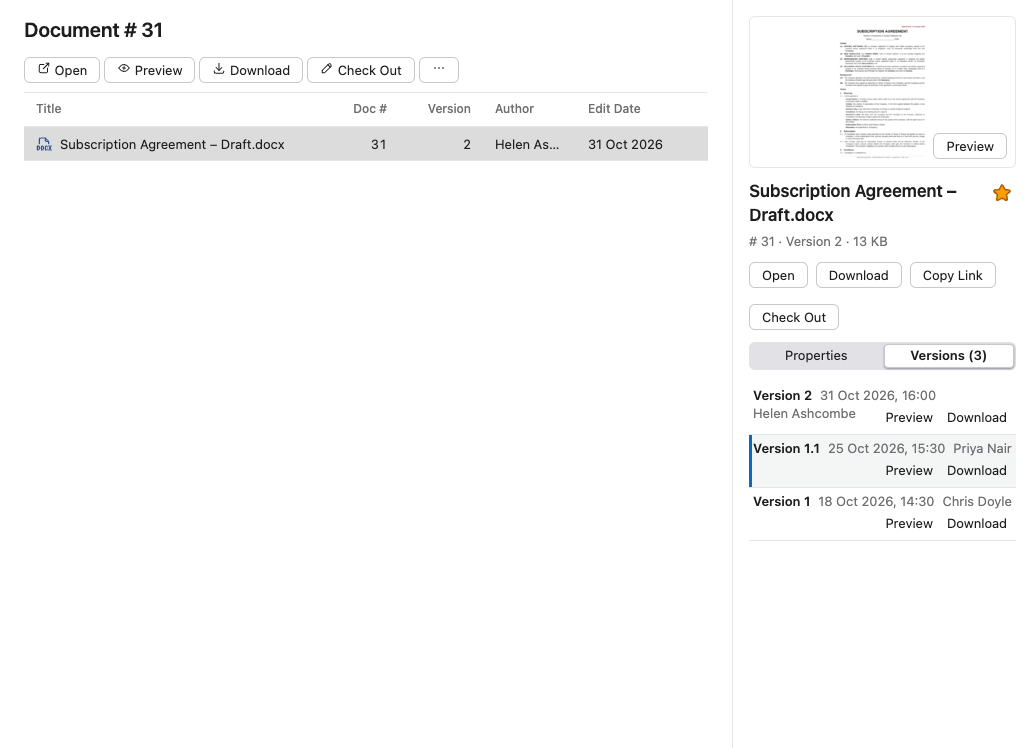
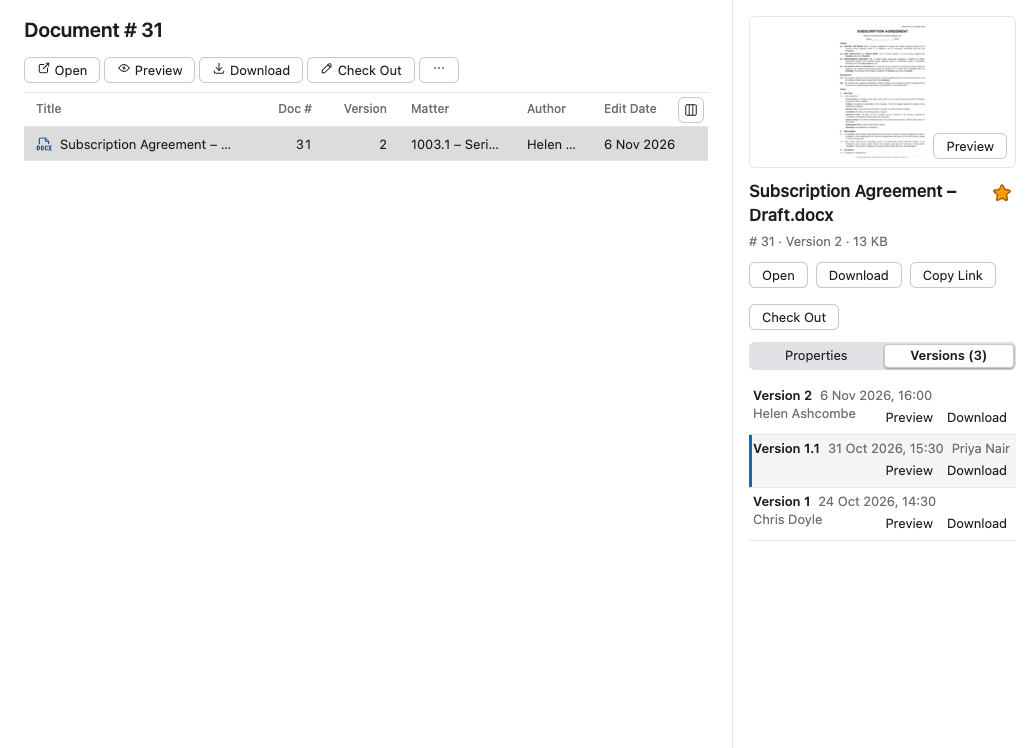
List columns: the User Guide's pictures of lists with the Matter cell and the Columns button
Search results with Filters, Checked Out to Me and the page a doc # opens, retaken at their sizes from a fresh demo stack
on this branch's image (headless Chrome on the Mac at 1280 x 800, light, Europe/London, en-GB, as Priya Nair), with
Checked Out to Me's four check-outs staged as before: Disclosure Letter in the browser, then three a minute apart on a
device token named "Healdan Helper on MacBook", in LibreOffice, Excel and Word. Each list now shows the Matter cell's
number and name and the Columns button at the end of its headings, the doc # page has a Documents search's columns, and
Checked Out to Me the arrow on Checked Out. The alt texts say so, with the dates the fresh stack gave.

diff --git a/site/content/user/finding-documents/finding-by-doc-number/index.md b/site/content/user/finding-documents/finding-by-doc-number/index.md
@@ -27,7 +27,7 @@ and its versions. For a version or snapshot, the details open on the **Versions*
 list has a **Documents** search's columns, and choosing them here chooses them there too (see [The List's
 Columns](../../getting-started/getting-around/#the-lists-columns)).
 
-![The page for document # 31 in the web page: the toolbar, with Open, Preview, Download, Check Out and the ⋯ (More) button, above a list with just Subscription Agreement – Draft.docx, version 2, by Helen Ashcombe, selected, and its details at the right with its thumbnail, its name with the filled Favorites star, Open, Download, Copy Link and Check Out, and the Versions (3) tab, where Version 1.1, saved on 25 Oct 2026 at 15:30 by Priya Nair, is marked](doc-page.png)
+![The page for document # 31 in the web page: the toolbar, with Open, Preview, Download, Check Out and the ⋯ (More) button, above a list with a Documents search's columns and the Columns button at the end of their headings, holding just Subscription Agreement – Draft.docx, version 2, in 1003.1 – Series A Investment, by Helen Ashcombe, selected, its title, matter and author cut short; and its details at the right with its thumbnail, its name with the filled Favorites star, Open, Download, Copy Link and Check Out, and the Versions (3) tab, where Version 1.1, saved on 31 Oct 2026 at 15:30 by Priya Nair, is marked](doc-page.png)
 
 - **It's found the moment it's filed.** Doc # addresses don't wait for the search index.
 - **If you can't read the document,** Healdan answers as if it didn't exist: "No document # 1234 that you can see."

diff --git a/site/content/user/finding-documents/searching/index.md b/site/content/user/finding-documents/searching/index.md
@@ -145,4 +145,4 @@ document saved late in the evening counts as that day's, wherever the server is.
   panel. The filters stay set, and the button brings the panel back.
 - **The filters are in the page's address,** so Back, bookmarks and a copied link keep them.
 
-![Search results for "lease" in Documents, by relevance, with Filters open at the right and the File Type filter set to Word and PDF: the chip "File Type: Word, PDF" above eight documents with their doc #s, versions, matter numbers 1002.1 and 1003.1, authors and Edit Dates, such as # 48 on 1 Nov 2026 and # 62 on 12 Nov 2026, where long titles and names end in an ellipsis; and the filters' groups, with File Type counts of Word 5 and PDF 3, then Author](results-filters.png)
+![Search results for "lease" in Documents, by relevance, with Filters open at the right and the File Type filter set to Word and PDF: the chip "File Type: Word, PDF" above eight documents with their doc #s, versions, matters, authors and Edit Dates, such as # 48 on 7 Nov 2026 and # 62 on 18 Nov 2026, where long titles, the matters 1002.1 – Commercial Lease and 1003.1 – Series A Investment and the authors' names end in an ellipsis, and the Columns button at the end of the headings; and the filters' groups, with File Type counts of Word 5 and PDF 3, then Author](results-filters.png)

diff --git a/site/content/user/documents/checking-out-and-checking-in/index.md b/site/content/user/documents/checking-out-and-checking-in/index.md
@@ -56,7 +56,7 @@ wherever you checked it out: in the app, in the Classic Interface, or on any of 
 [Healdan Helper](../../office/). It's the place to look for work still in progress, or for a document you forgot to
 check in. Beside it, a count says how many there are, once there's at least one.
 
-![Checked Out to Me open in the main area, its entry highlighted at the top of the left pane with 4 beside it. Its list shows three documents on MacBook, each with its app beside the computer's name, LibreOffice cut short with an ellipsis, then one on Web Page, the latest check-out first](checked-out-to-me.png)
+![Checked Out to Me open in the main area, its entry highlighted at the top of the left pane with 4 beside it. Its list, sorted by Checked Out with the arrow on that heading and the Columns button at the end of the headings, shows three documents on MacBook, each with its matter by number and name and its app beside the computer's name, LibreOffice cut short with an ellipsis, then one on Web Page, the latest check-out first](checked-out-to-me.png)
 
 | Column | What it shows |
 |---|---|
